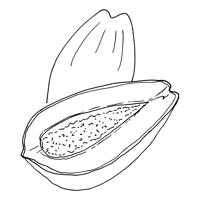
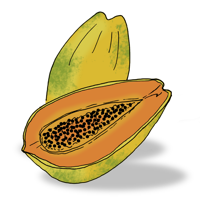
add last painted illustrations

diff --git a/README.md b/README.md
@@ -26,15 +26,15 @@ Ahora, ¿*cómo saber qué comer y cuándo*? Buscando calendarios en la web, uno
 ## Descripción detallada
 
 #### Análisis de la situación
-Nos hemos puesto en contacto con los autores del [calendario de temporada oficial del Ministerio de Agricultura](http://www.alimentacion.es/es/campanas/frutas/frutas_verduras_temporada/) para que nos aclaren la metodología usada para elaborarlo. Nuestra solicitud ha sido rechazada, por eso vamos a lanzar una campaña en las redes sociales para presionarles en cambiar los errores en su calendario. El objetivo es que de ahora en adelante, **se especifique en todos los calendarios el tipo y la zona de cultivo**. 
+Nos hemos puesto en contacto con los autores del [calendario de temporada oficial del Ministerio de Agricultura](http://www.alimentacion.es/es/campanas/frutas/frutas_verduras_temporada/) para que nos aclaren la metodología usada para elaborarlo. Nuestra solicitud ha sido rechazada, por eso vamos a lanzar una campaña en las redes sociales para presionarles en cambiar los errores en su calendario. El objetivo es que de ahora en adelante, **se especifique en todos los calendarios el tipo y la zona de cultivo**.
 
 Por otra parte, analizaremos los [datos de importación y exportación de frutas y hortalizas de FEPEX](http://www.fepex.es/datos-del-sector/exportacion-importacion-espa%C3%B1ola-frutas-hortalizas). El análisis nos permitirá saber cuáles son los alimentos que más se importan y de éstos cuáles se producen en España. Tener esta información es necesario para **concienciar** al público.
 
 #### Los datos
 Como faltan datos oficiales, tenemos que hablar con agricultores para saber cual es la temporada de cultivo de cada producto, y así coger la información la fuente. A nivél oficial, existen dos conjuntos de datos:
 
-- La [Encuesta sobre Superficies y Rendimientos de Cultivos (ESYRCE)](http://www.mapama.gob.es/es/estadistica/temas/estadisticas-agrarias/espana2016web_tcm7-452544.pdf) del Ministerio de Agricultura nos ofrece los siguientes datos: la producción de cada verdura y fruta por comunidad autónoma y por tipo de cultivo (secano, regadío o invernadero) en hectarios cultivados. 
- 
+- La [Encuesta sobre Superficies y Rendimientos de Cultivos (ESYRCE)](http://www.mapama.gob.es/es/estadistica/temas/estadisticas-agrarias/espana2016web_tcm7-452544.pdf) del Ministerio de Agricultura nos ofrece los siguientes datos: la producción de cada verdura y fruta por comunidad autónoma y por tipo de cultivo (secano, regadío o invernadero) en hectarios cultivados.
+
 - Los [Avances de superficies y producciones de cultivos](http://www.mapama.gob.es/es/estadistica/temas/estadisticas-agrarias/agricultura/avances-superficies-producciones-agricolas/) del Ministerio de Agricultura determinan con periodicidad mensual los avances de superficies y producciones, dentro de un calendario establecido al efecto en función de las épocas de siembra y recolección a lo largo de la geografía española.
 
 - [La encuesta](https://docs.google.com/forms/d/e/1FAIpQLSe-ysO45blE7-ADPvRiqTWUlGIr00dXId429akjXojanchIoA/viewform). Para elaborar un nuevo calendario, hemos creado un formulario a rellenar por agricultores y gente que tiene conocimientos en huertos comunicando la mejor temporada de recolección de cada producto.
@@ -76,18 +76,22 @@ Además, diseñaremos un estilo de CSS que permita al usuario imprimirse un cale
 - **[Data Cuisine](http://data-cuisine.net/)**
 
 ## Equipo
-- [Jimena García]
-- [Raimundo Abril](https://twitter.com/Raiskv/)
 - [Diego Andrés Ramírez Aragon](https://twitter.com/lowfill/)
-- [Pau Valiente](https://twitter.com/paucc/)
 - [Flora Fosset](https://twitter.com/florafosset/)
+- [Jimena García](https://twitter.com/_JimmyJazzzz)
+- [Pau Valiente](https://twitter.com/paucc/)
+- [Raimundo Abril](https://twitter.com/Raiskv/)
+
+## Mentores
+- [Alejandro Zappala](https://twitter.com/alayzappala)
+- [Jesús David Navarro Rodríguez](https://twitter.com/jesusda/)
+- [Sergio Galán](https://twitter.com/sergioeclectico)
+
 
 ----------------------------------------------------------------------------------------------------
 
 
-
 # The journey of food to your pantry
-##### Project proposal for the workshop "Visualizar 17" at Medialab Prado (Madrid)
 
 ## Project summary
 It’s been decades that citizens of urban centers disconnected from the agricultural world and the natural rhythm of plants. Summer or winter, there’s always exotic fruits in the supermarkets stands. There are two methods to consume one type of fruit or vegetable during the whole year: **importing it** or **cultivating it in a heated greenhouse**. Both ways generate greenhouse gases, damaging more and more our environment.
@@ -99,22 +103,3 @@ A food product that traveled thousands of kilometers and was conserved during th
 Now, *how do we know what to eat and when*? Looking at Spanish seasonal calendars on the web, we are confronted to a big blend of contradictory information. The reason is that a seasonal calendar can be elaborated from **different variables**, and every author picks whichever he wants: national or local climate, open air or greenhouse farming, heated greenhouse or not, etc.
 
 We need a tool that shows what can be eaten from local farming and in-season. This project’s goal is to elaborate an app that allows to know what are the fruits and vegetables than are being harvested in every *region of Spain*, depending on the *season* and the *type of culture*. That way, we’ll offer a tool for the ones who want to eat responsibly, limiting the excessive transport of food and the farming in heated greenhouses.
-
-
-## Project description
-
-
-## Technical requirements
-It's important that the team includes a programmer specialised in webapps. An illustrator is not essential but it would be really appreciated.
-
-
-## Profile of collaborators needed
-Anyone with motivation and who likes teamwork!
-
-These specific profiles could be useful:
-- **Journalists** (investigation on incorrect calendars and the national situation)
-- **Climatologists** (investigation on weather in each region of Spain)
-- **Farmers** o people with experience in the farming world
-- **Illustrators** (drawings of products and of seasonal calendar)
-- **Designers**
-- **Programmers**

diff --git a/acerca.md b/acerca.md
@@ -7,9 +7,9 @@ cabezote: /img/acerca-cabezote.jpg
 
 ## El proyecto
 <br>
-Este proyecto se ha desarrollado en el marco del evento [Visualizar 17](http://medialab-prado.es/article/visualizar17-migraciones-proyectos-seleccionados), un taller colaborativo y de datos abiertos organizado por el Medialab Prado del Ayuntamiento de Madridque. Tuvo lugar del 15 al 30 de septiembre 2017.
+Este proyecto se ha desarrollado en el marco del evento [Visualizar 17](http://medialab-prado.es/article/visualizar17-migraciones-proyectos-seleccionados), un taller colaborativo y de datos abiertos organizado por el Medialab Prado del Ayuntamiento de Madrid. Tuvo lugar del 15 al 30 de septiembre 2017.
 
-### Preludio
+### Introducción
 Desde hace décadas, los habitantes de centros urbanos se desconectaron del mundo agrícola y del ritmo natural de la tierra. Sea verano o invierno, sur o norte, hoy en día en Europa siempre hay fruta exótica en los estantes de supermercados. Hay dos maneras de tener todo tipo de fruta y verdura todo el año: importando o cultivando en invernaderos climatizados. Los dos métodos generan gases de efecto invernadero, destrozando cada vez más el medio ambiente. Tenemos que deshacernos de la "comodidad" a la que nos hemos acostumbrado y volver a consumir como lo hacían nuestros abuelos: siguiendo el ritmo de la naturaleza.
 
 Ahora, ¿cómo saber qué comer y cuándo? Buscando calendarios en la web, uno se enfrenta a una gran mezcla de datos e informaciones contradictorias. Este proyecto tiene por objetivo elaborar un calendario fiable, completo y lo más preciso posible. El objetivo original era elaborar varios calendarios dependiendo de la zona de cultivo. Por falta de datos, hemos decidido elaborar un sólo calendario para toda la península.
@@ -20,13 +20,15 @@ Con este proyecto, aportamos una herramienta para apoyar el consumo responsablem
 ### Metodología
 Para elaborar el calendario, hemos contactado con personas del mundo agrícola para que nos comuniquen las temporadas de los productos en su zona a través de una encuesta. Hemos hablado con agricultores, grupos de consumo, observatorios agroalimentarios y consejos de producción ecológica.
 
-Por ahora han participado a la encuesta más de 15 personas y organismos de varias comunidades autónomas: Andalucía, Asturias, Extremadura, Madrid, Navarra y País Vasco. Los formuliarios de respuesta siguen accesibles [aquí](https://martinez.typeform.com/to/ABbL1V). Una vez recolectadas suficiente respuestas de cada región del país, podremos elaborar una herramienta más precisa que ira mostrando los productos de temporada dependiendo de la ubicación del usuario.
+Por ahora han participado a la encuesta más de 15 personas y organismos de varias comunidades autónomas: Andalucía, Asturias, Extremadura, Madrid, Navarra y País Vasco. El formuliario sigue accesible [aquí](https://martinez.typeform.com/to/ABbL1V) y se agradece la colaboración de cualquier persona que tenga conocimientos sobre el ciclo de las plantas.
+
+Una vez recolectadas suficiente respuestas de cada región del país, podremos elaborar una herramienta más precisa que ira mostrando los productos de temporada dependiendo de la ubicación del usuario.
 
 ### Obstáculos
 El freno más grande al cual nos hemos enfrentado hasta ahora es la falta de datos existentes y de respuestas a la encuesta.
 
 ### Valores
-Es un proyecto colaborativo, evolutivo y transparente. Cualquier duda, queja o comentario estará bienvenido para mejorar la herramienta.
+Es un proyecto colaborativo, evolutivo y transparente. Cualquier duda, queja o comentario estará bienvenido para mejorar la herramienta. Se puede contactar con nosotros aquí.
 
 ### Equipo
 <div class="row">
